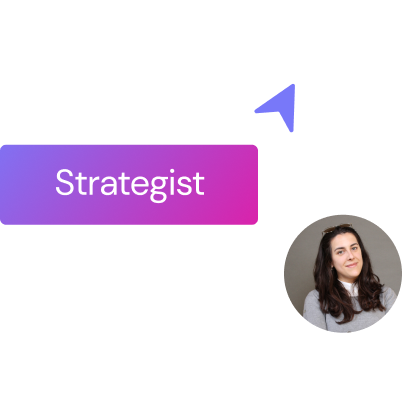
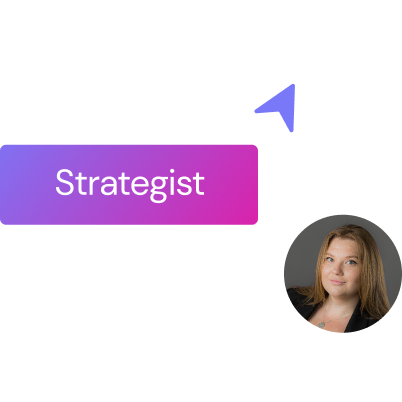
Bugfix: hamburger fixed, height video, removed Lucia, CAP

Changed region(s): [[0.6866, 0.5373, 1.0, 0.8358]]

diff --git a/src/components/Navbar.vue b/src/components/Navbar.vue
@@ -25,6 +25,14 @@
         </g-link>
         <nav class="nav">
           <ul class="list-unstyled d-lg-flex align-items-center m-0">
+            <li class="mb-4 d-lg-none">
+              <g-image
+                src="~/assets/images/logo/logix-software.svg"
+                class="header__logo mx-3"
+                alt="logix-software"
+                v-if="color === 'default' || isMenuOpen"
+              />
+            </li>
             <li class="position-relative py-2 py-lg-0">
               <g-link to="/chi-siamo" class="nav__link mx-3 py-3"
                 >Chi siamo</g-link
@@ -35,7 +43,7 @@
                 Competenze
               </g-link>
             </li>
-            <li class="position-relative py-2 py-lg-0">
+            <li class="position-relative py-2 py-lg-0 mb-4 mb-lg-0">
               <g-link to="/progetti" class="nav__link mx-3 py-3"
                 >Progetti</g-link
               >
@@ -208,8 +216,8 @@ export default {
       this.widthScreen = screen.width;
     });
   },
-   beforeDestroy() { 
-    window.removeEventListener('resize', null);
+  beforeDestroy() {
+    window.removeEventListener("resize", null);
   },
   methods: {
     hamburger: function (el) {
@@ -256,7 +264,7 @@ export default {
   background: #000;
   @media screen and (max-width: 992px) {
     top: 10px;
-    position: absolute;
+    position: fixed;
   }
   &:before {
     content: "";
@@ -351,33 +359,16 @@ export default {
       @media screen and (max-width: 992px) {
         font-size: 24px;
       }
-      //   &:after {
-      //     content: "";
-      //     height: 1px;
-      //     background-color: #743237;
-      //     width: 0;
-      //     position: absolute;
-      //     bottom: 3px;
-      //     left: 50%;
-      //     transition: all 0.2s;
-      //   }
-      //   &:hover {
-      //     color: #743237;
-      //     &:after {
-      //       left: 0%;
-      //       width: 100%;
-      //     }
-      //   }
     }
     @media screen and (max-width: 992px) {
-      padding-top: 30px;
+      padding-top: 20px;
       padding-bottom: 30px;
       opacity: 0;
       background-color: rgba(0, 0, 0, 1);
       height: 100%;
       width: 100%;
       position: fixed;
-      top: 55px;
+      top: 0;
       right: 0;
       bottom: 0;
       left: -100%;

diff --git a/src/templates/Projects.vue b/src/templates/Projects.vue
@@ -15,13 +15,17 @@
       </video>
       <img v-else class="hero__img" :src="$page.project.imageNoVideo" />
 
-      <div class="container">
+      <div class="container d-none d-lg-block">
         <h1 class="hero__title">{{ $page.project.title }}</h1>
         <h6 class="hero__subtitle">{{ $page.project.subTitle }}</h6>
       </div>
     </div>
     <div class="container py-5">
       <div class="row">
+        <div class="col-lg-12 d-block d-lg-none">
+        <h1 class="hero__title">{{ $page.project.title }}</h1>
+        <h6 class="hero__subtitle">{{ $page.project.subTitle }}</h6>
+      </div>
         <div class="col-lg-3 client">
           <g-image
             :src="$page.project.logoClient"
@@ -577,7 +581,10 @@ export default {
   color: #fff;
   font-family: "Lexend Deca";
   @media screen and (max-width: 600px) {
-    max-height: 620px;
+    max-height: 420px;
+  }
+  @media screen and (max-width: 992px) {
+    max-height: 600px;
   }
   &:before {
     content: "";
@@ -614,8 +621,6 @@ export default {
   }
 }
 #myVideo {
-  // width: 100vw;
-  // height: 100vh;
   width: 100%;
   height: 100%;
   object-fit: cover;

diff --git a/src/components/Footer.vue b/src/components/Footer.vue
@@ -9,7 +9,7 @@
               <h6 class="footer__titleSmall">A Terni</h6>
               <p>Via di Porta San Giovanni, 28 - 05100 Terni (TR)</p>
               <h6 class="footer__titleSmall">A Roma</h6>
-              <p>Via Montenero Sabino, 50 - 00133 Roma (RM)</p>
+              <p>Via Montenero Sabino, 50 - 00131 Roma (RM)</p>
             </div>
           </div>
           <div class="col-lg-3 mb-3 mb-lg-0">

diff --git a/src/pages/Index.vue b/src/pages/Index.vue
@@ -601,7 +601,7 @@ export default {
       return Math.floor(Math.random() * 3) + 1;
     },
     getRandomNumberStrategist() {
-      return Math.floor(Math.random() * 4) + 1;
+      return Math.floor(Math.random() * 3) + 1;
     },
     onIntersectionElement(value) {
       this.isIntersectingElement = value;
